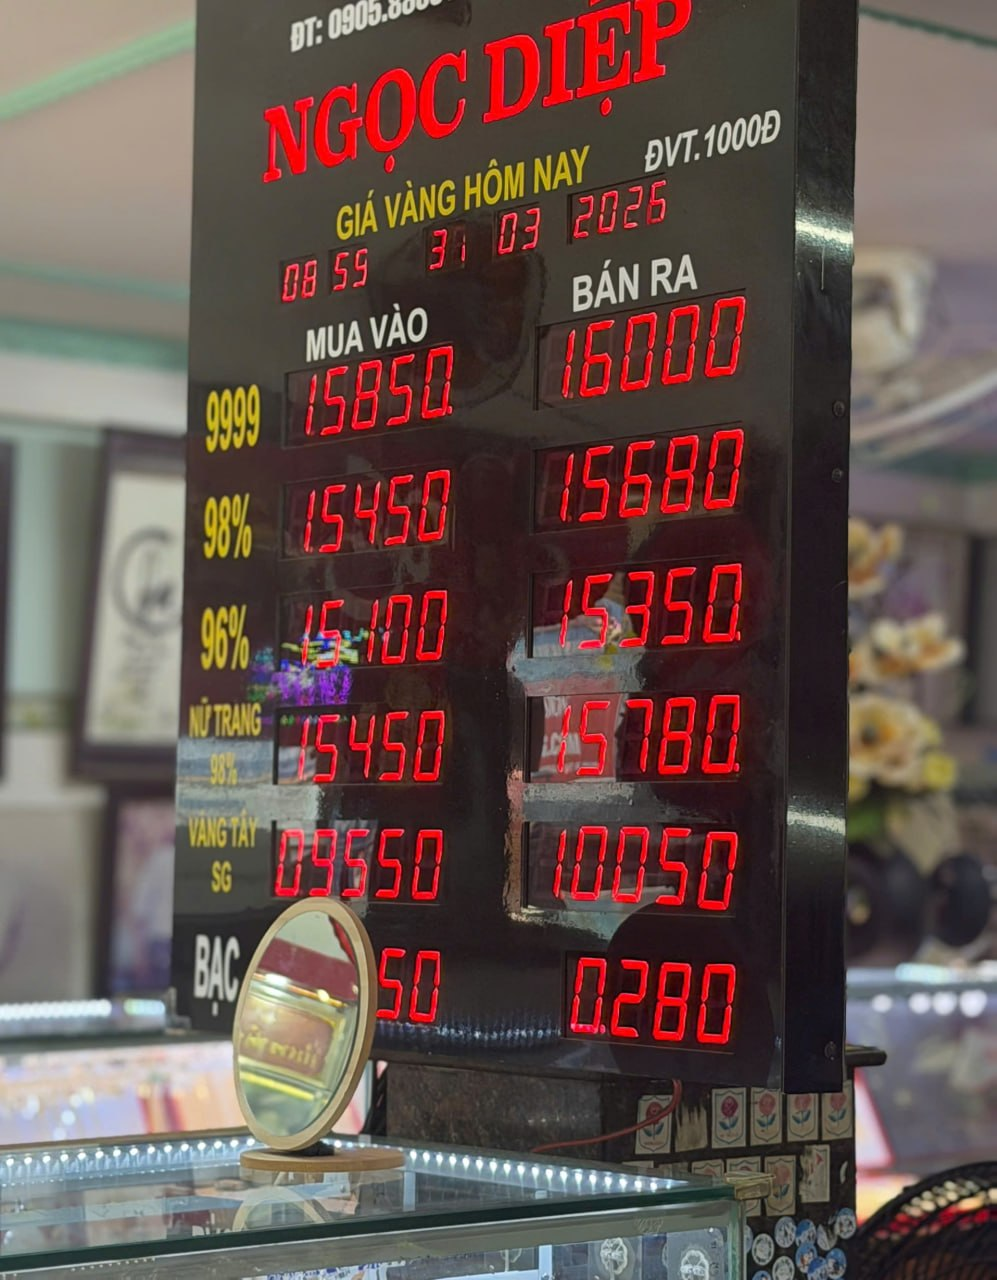
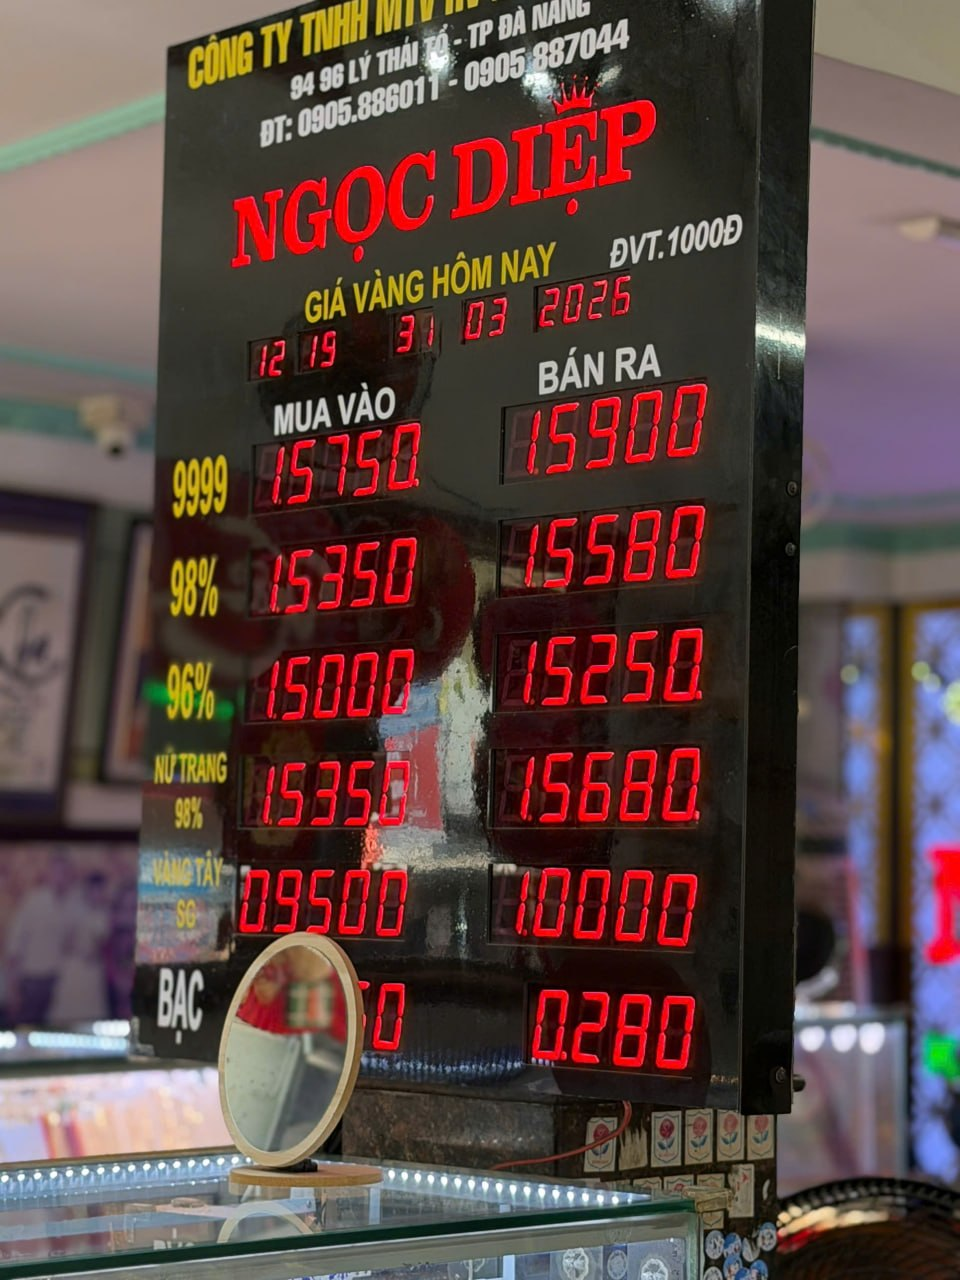
Update ngoc-diep price image (13:34)

diff --git a/app/data/goldShops.ts b/app/data/goldShops.ts
@@ -12,7 +12,7 @@ export const GOLD_SHOPS: GoldShop[] = [
     name: "Ngọc Diệp",
     location: "Đà Nẵng",
     image: "images/ngoc-diep.jpg",
-    updatedAt: "09:56",
+    updatedAt: "13:34",
   },
   {
     id: "ngoc-thinh",
